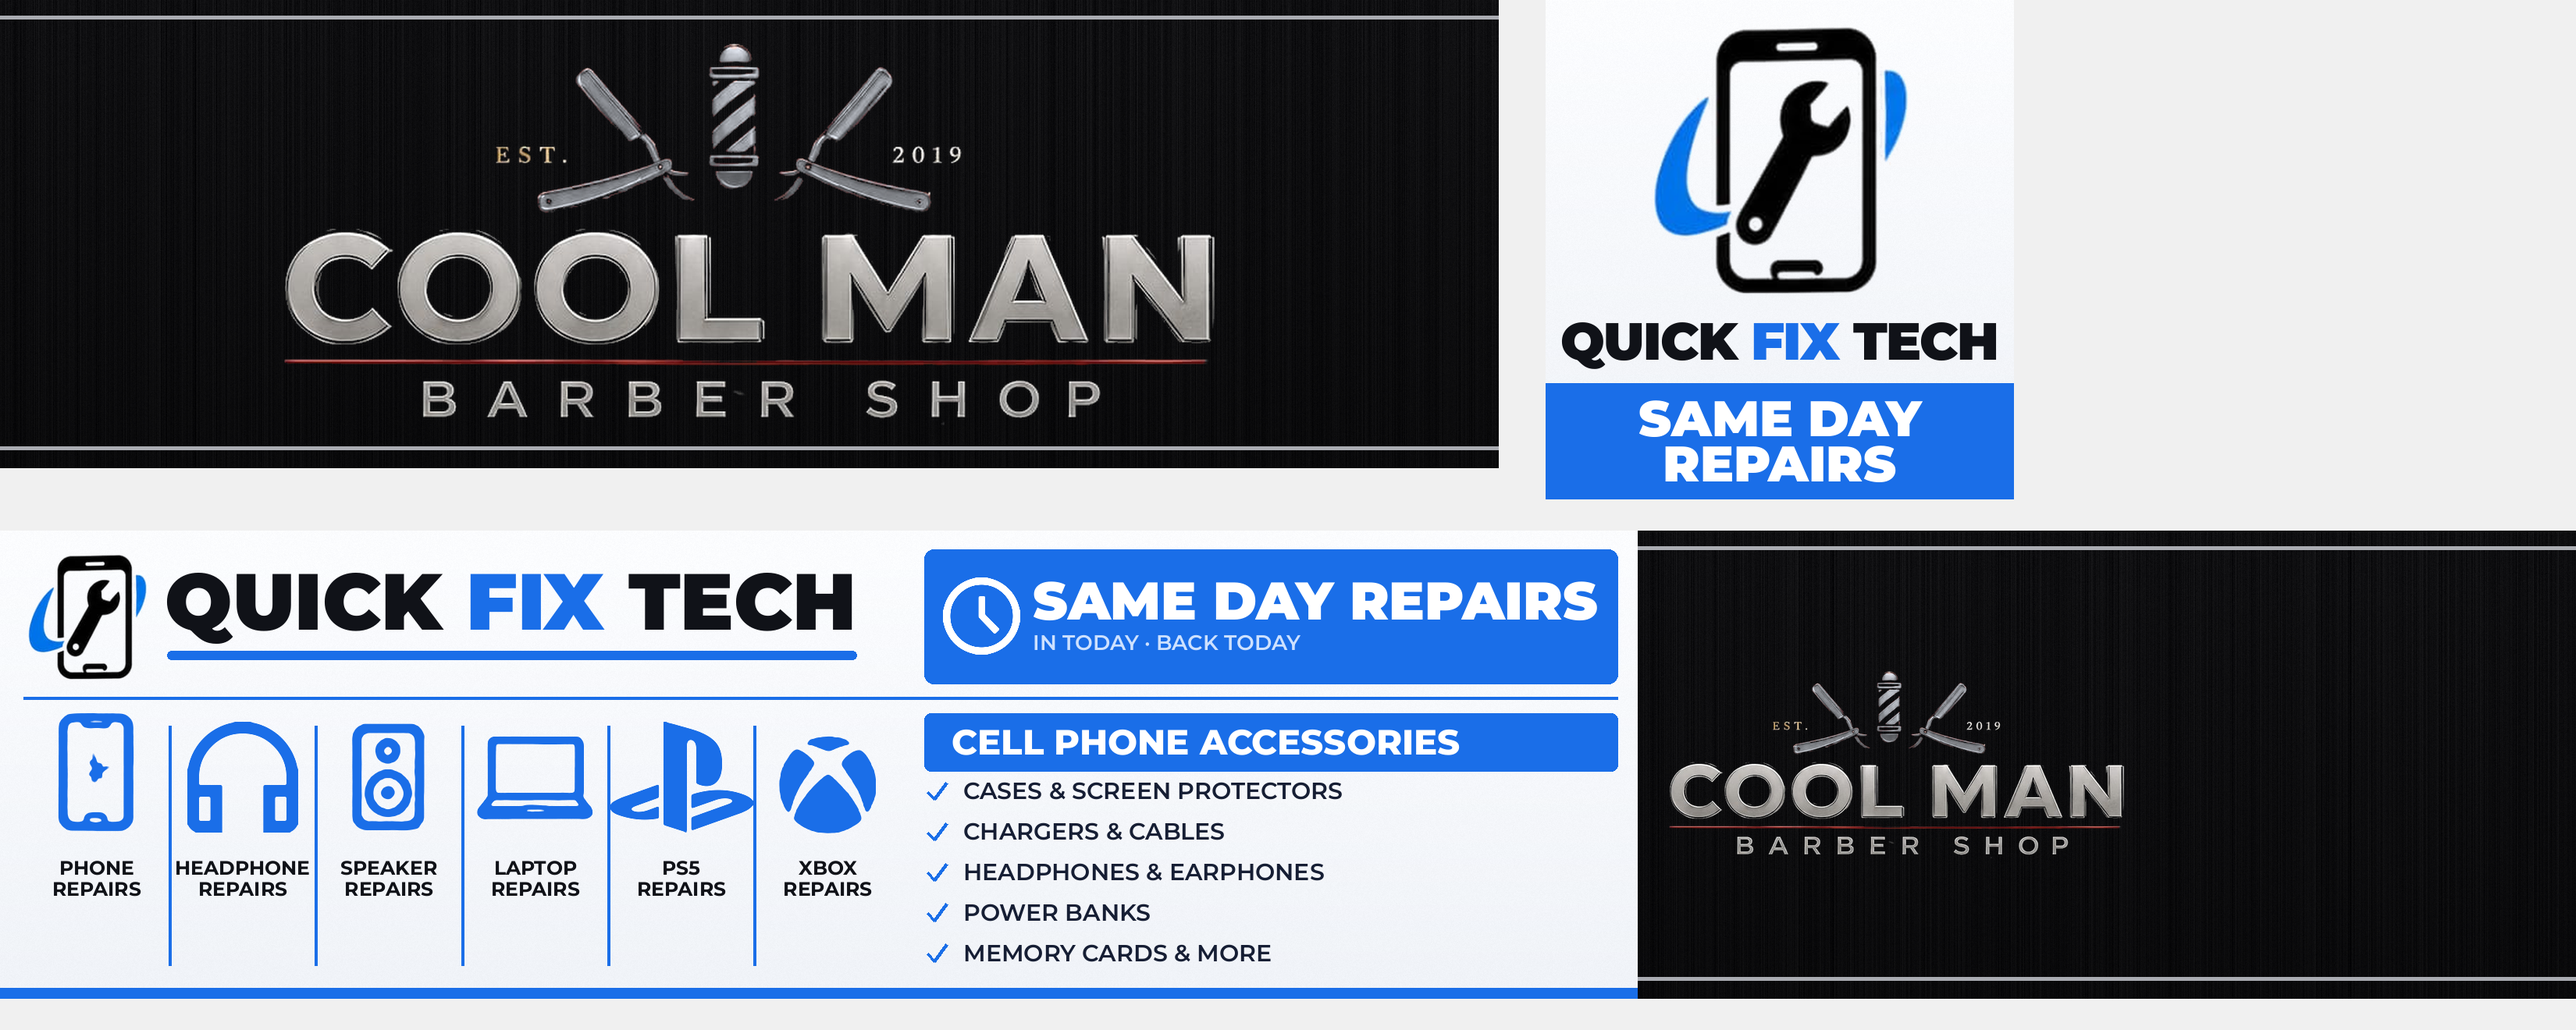
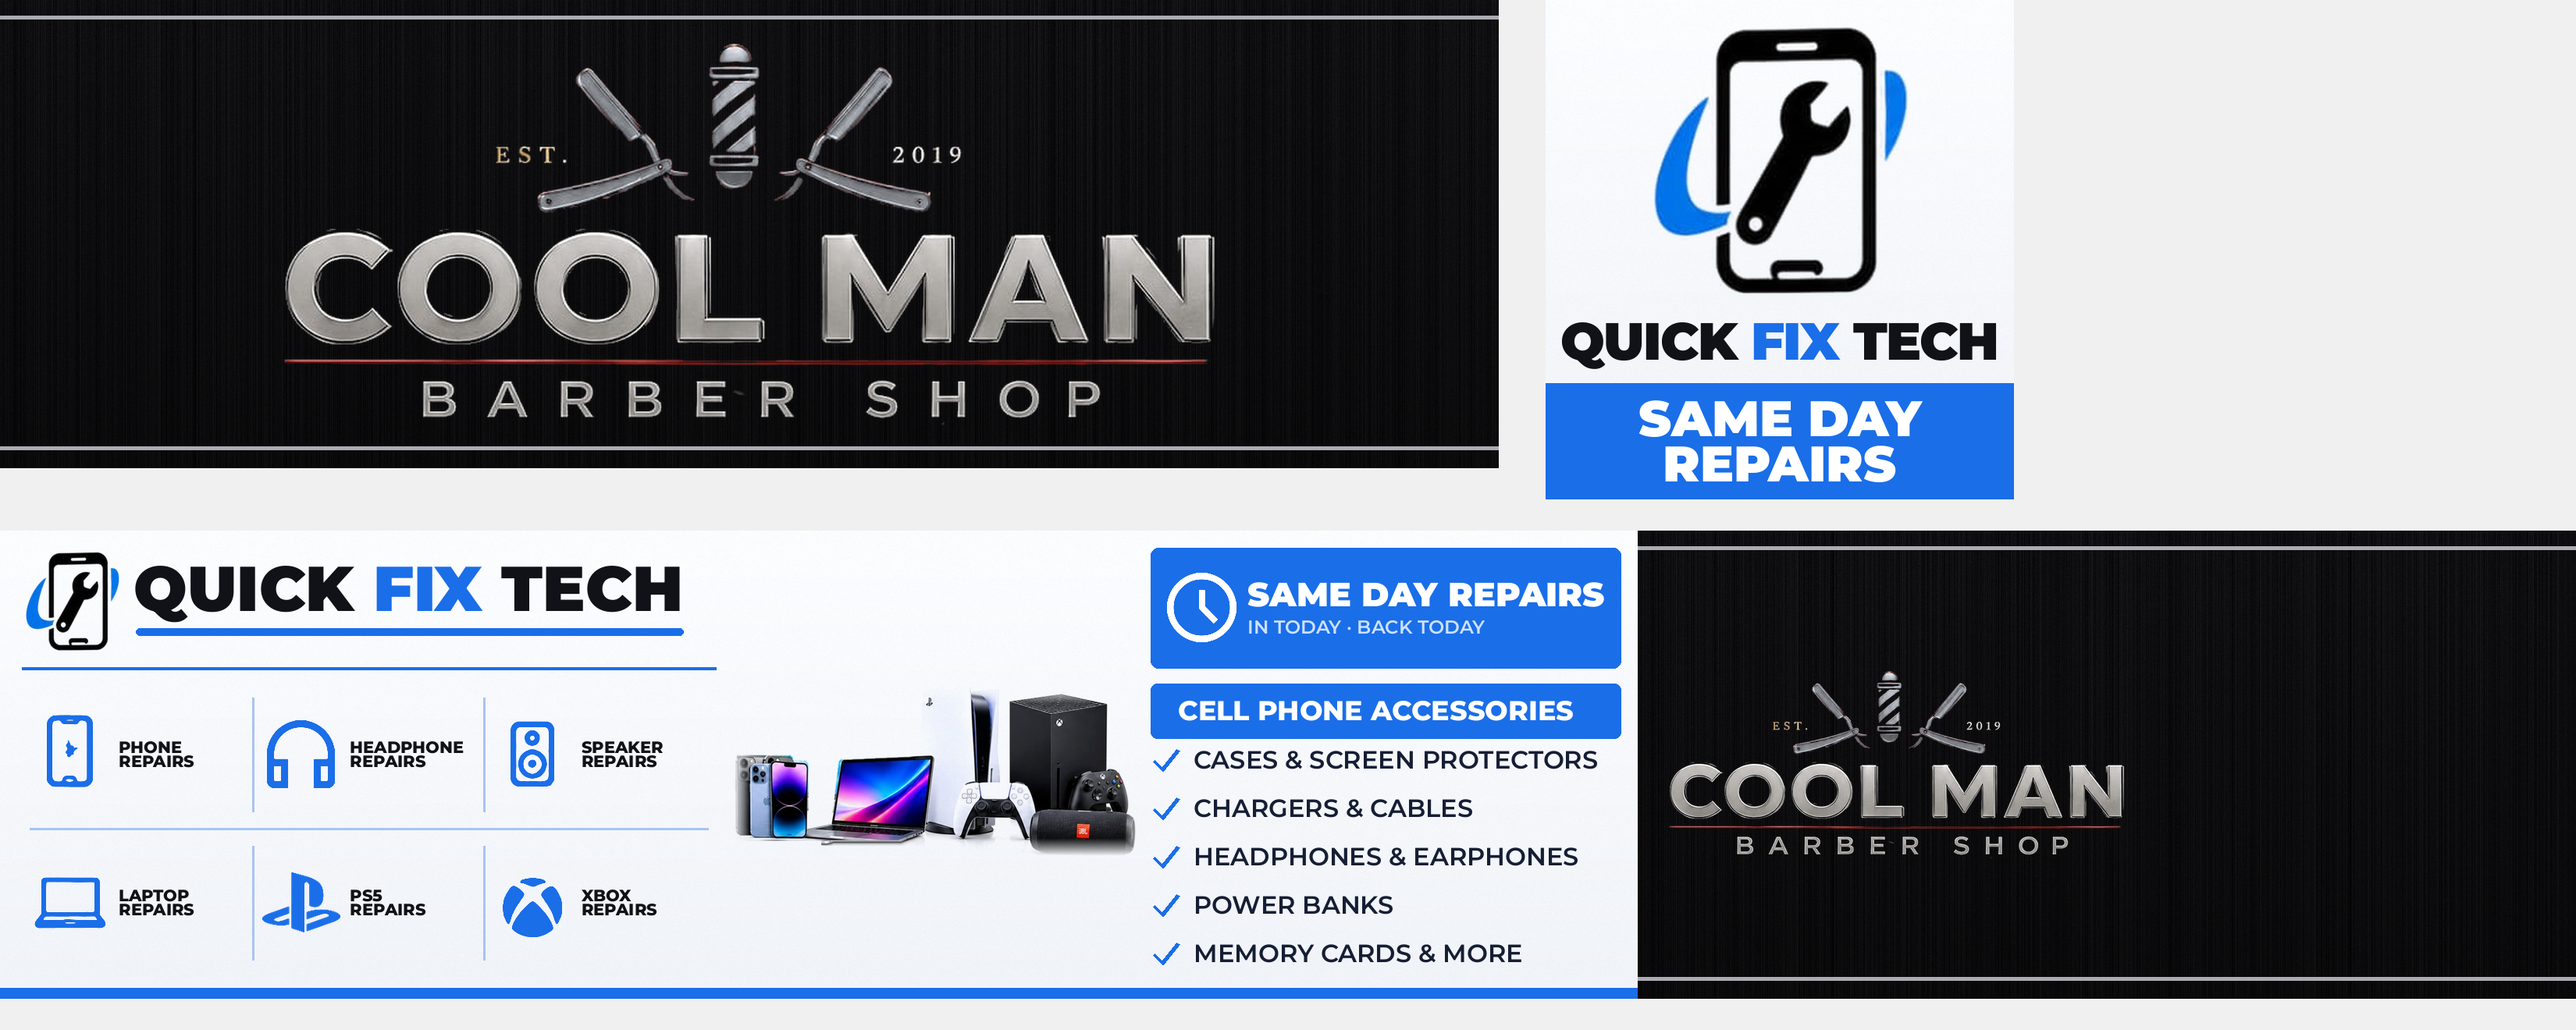
Version 6: three-column Quick Fix layout with product photo restored
Brand over a 3x2 labelled icon grid, product photo in the middle,
Same Day panel and accessories list pushed to the right.

Claude-Session: https://claude.ai/code/session_013KRwQLAxoZ4CUmAfzsxCfh

Changed region(s): [[0.0, 0.528, 0.6555, 0.9318]]

diff --git a/signage-concepts/source/signs_both.py b/signage-concepts/source/signs_both.py
@@ -103,15 +103,27 @@ def qf_extras(w, h):
     return t
 
 def qf_full_narrow(w, h):
-    """Narrow Quick Fix section with everything but the product photo: brand + Same Day on top,
-    labelled icons and the accessories list below."""
-    t = white(w, h); d = ImageDraw.Draw(t); m = 30
-    split = int(w*0.56)
-    P.brand(t, (m, 24, split - 20, 196))
-    P.same_day(t, (split + 10, 24, w - 26, 196))
-    d.line([(m, 214), (w - 26, 214)], fill=QBLUE, width=4)
-    P.icon_row(t, (m, 230, split - 20, 578), labels=True, icon_h=150, label_w=0.96, label_h=0.16, label_gap=0.06)
-    P.accessories(t, (split + 10, 234, w - 26, 580), head_h=74)
+    """Three columns: brand + labelled icons | product photo | Same Day + accessories."""
+    t = white(w, h); d = ImageDraw.Draw(t); m = 28
+    c1 = int(w*0.445); c2 = int(w*0.70)
+    P.brand(t, (m, 22, c1 - 16, 158))
+    d.line([(m, 176), (c1 - 16, 176)], fill=QBLUE, width=4)
+    # 3 x 2 icon grid: icon left, label right in each cell
+    gx0, gy0, gx1, gy1 = m, 192, c1 - 16, 572
+    cw_, ch_ = (gx1 - gx0)/3, (gy1 - gy0)/2
+    fl = qp.mont_fit(["HEADPHONE", "REPAIRS"], cw_ - 150, ch_*0.42, 800, 0.2)
+    for k, (name, msk, rel) in enumerate(P.icons):
+        cx0 = gx0 + (k % 3)*cw_; cy0 = gy0 + (k//3)*ch_
+        ic = qp.tint(qp.crisp(msk, int(92*rel)))
+        if ic.width > 100: ic = ic.resize((100, round(ic.height*100/ic.width)), Image.LANCZOS)
+        t.alpha_composite(ic, (int(cx0 + 14 + (96 - ic.width)/2), int(cy0 + (ch_ - ic.height)/2)))
+        qp.text_block(d, [name, "REPAIRS"], fl, cx0 + 124, cy0 + (ch_ - qp.block_h(fl, 2, 0.2))/2, INK, gap=0.2)
+        if k % 3: d.line([(cx0, cy0 + 22), (cx0, cy0 + ch_ - 22)], fill=(170, 195, 240), width=3)
+    d.line([(gx0 + 10, gy0 + ch_), (gx1 - 10, gy0 + ch_)], fill=(170, 195, 240), width=3)
+    pr = qp.scale_fit(P.products, c2 - c1 - 10, 520)
+    qp.multiply_in(t, pr, (c1 + (c2 - c1 - pr.width)//2, int((h - pr.height)/2) + 8))
+    P.same_day(t, (c2 + 6, 22, w - 22, 176))
+    P.accessories(t, (c2 + 6, 196, w - 22, 574), head_h=70, item_h=62)
     return t
 
 def strip(t, x0, x1):
